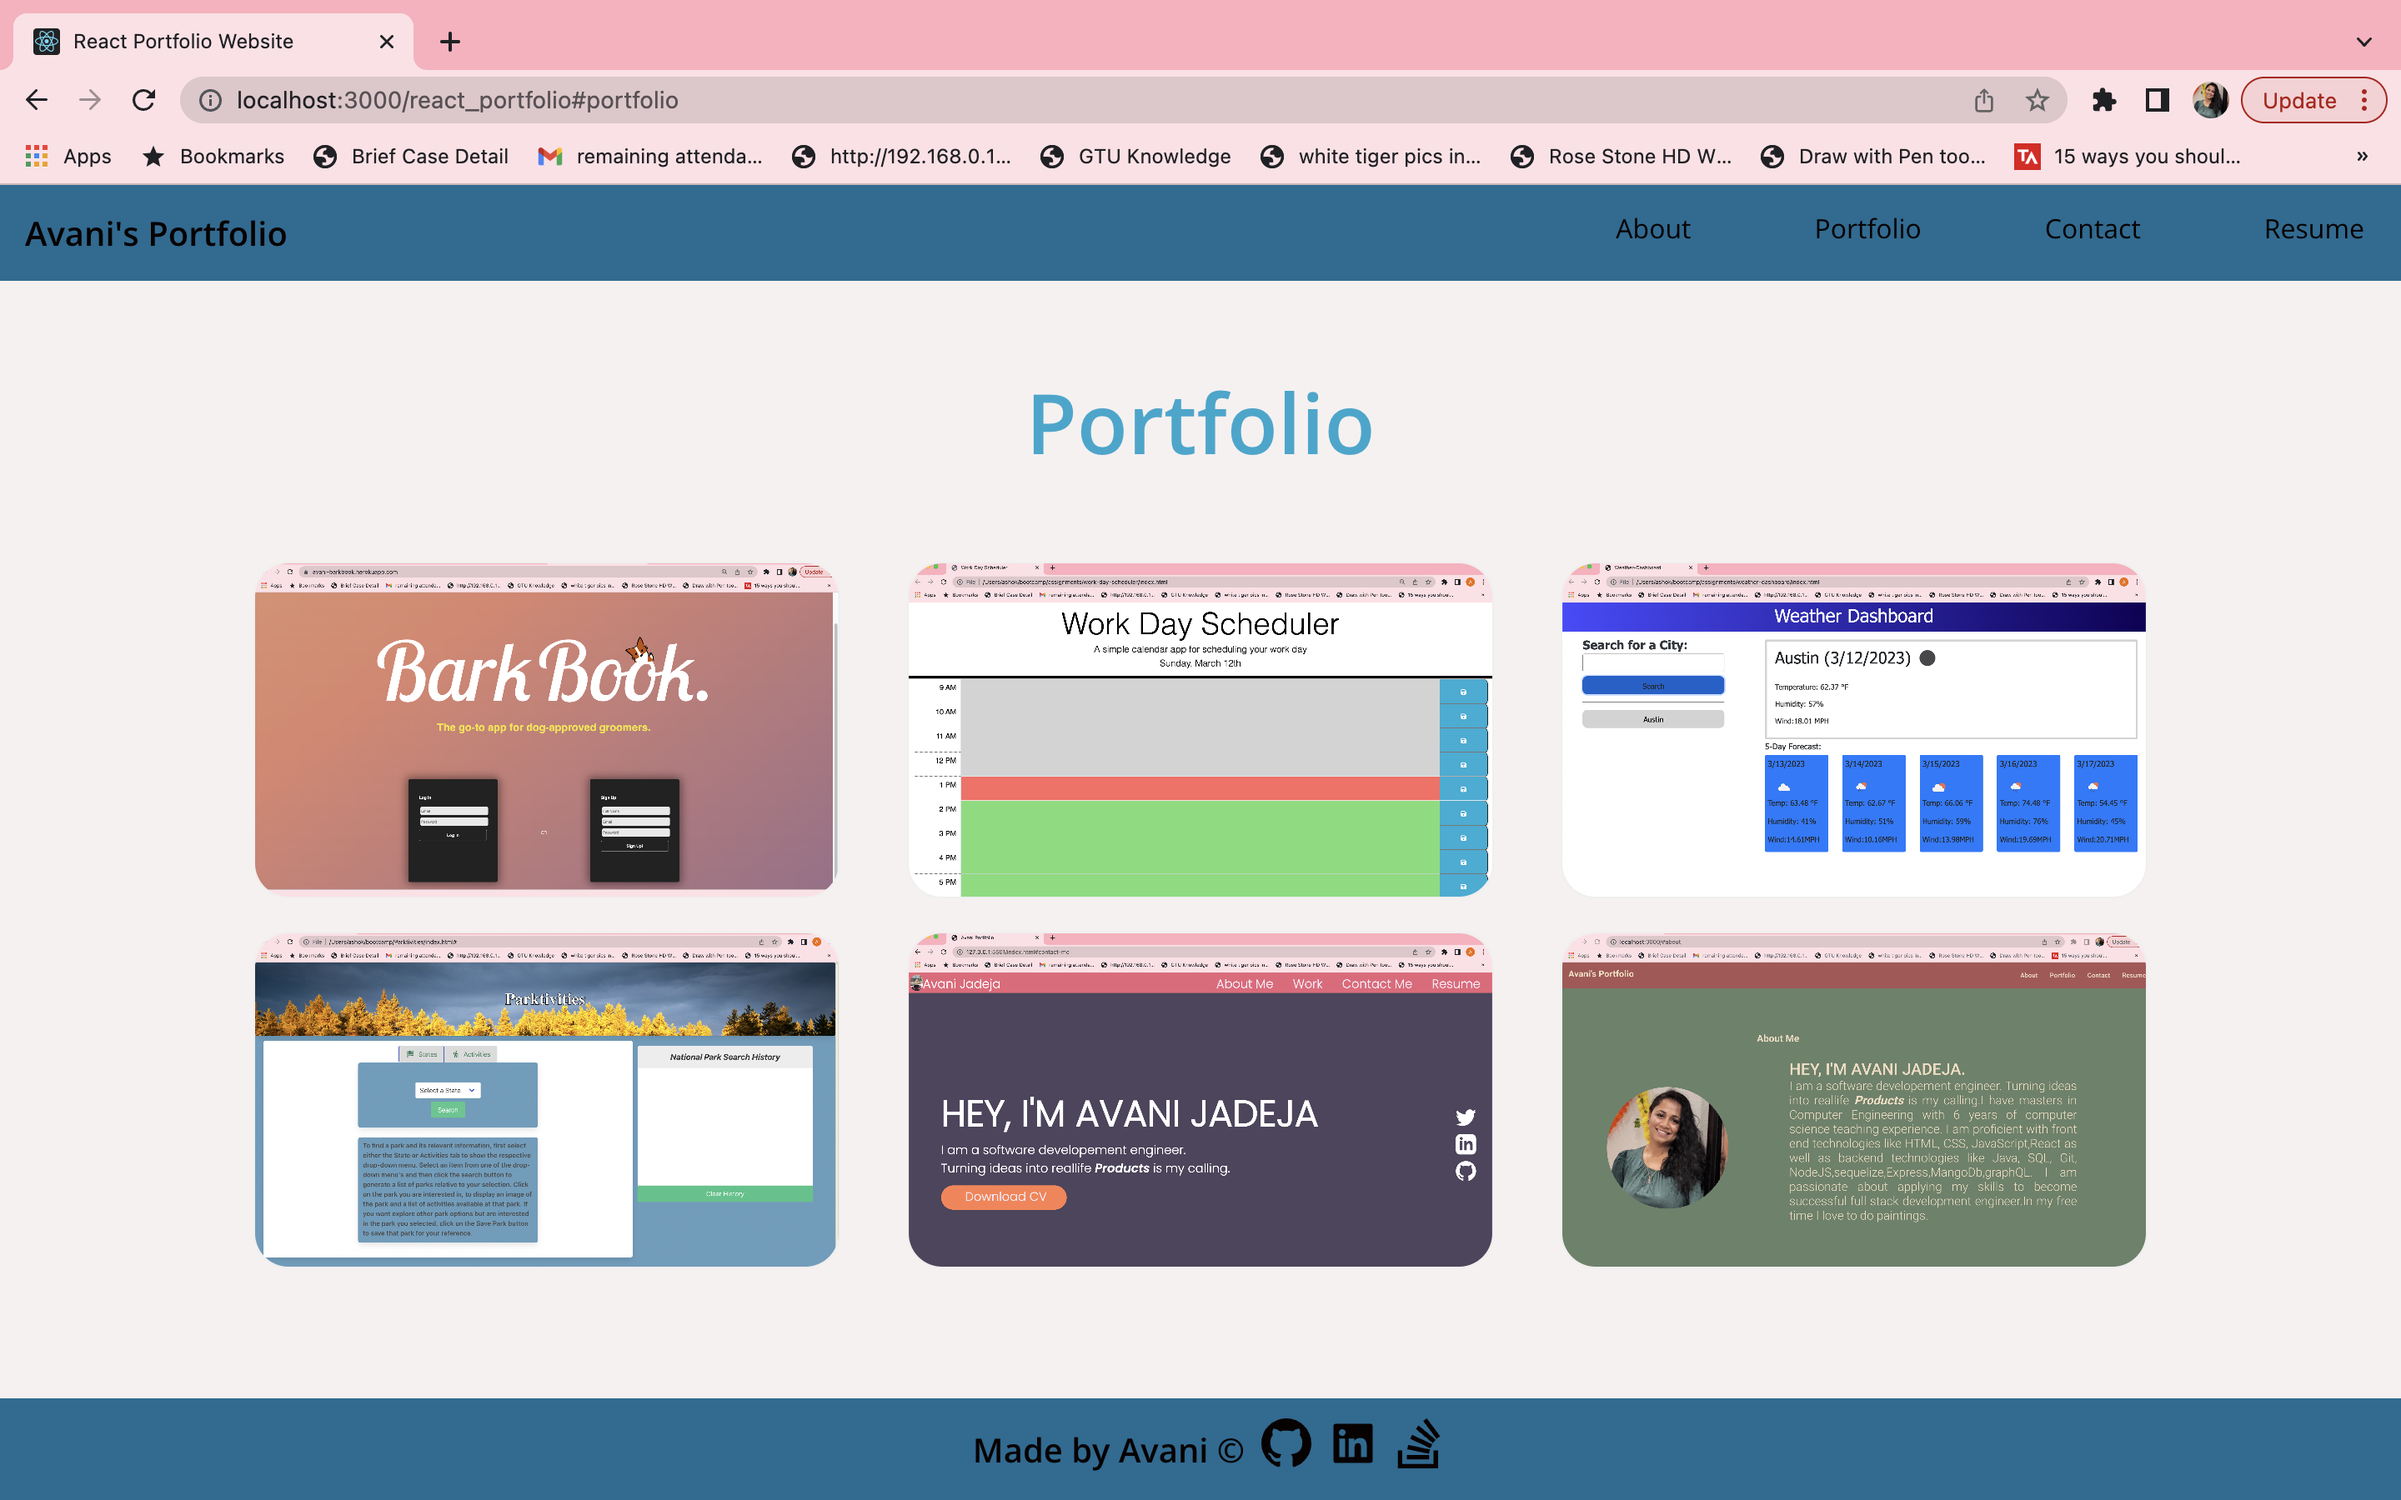
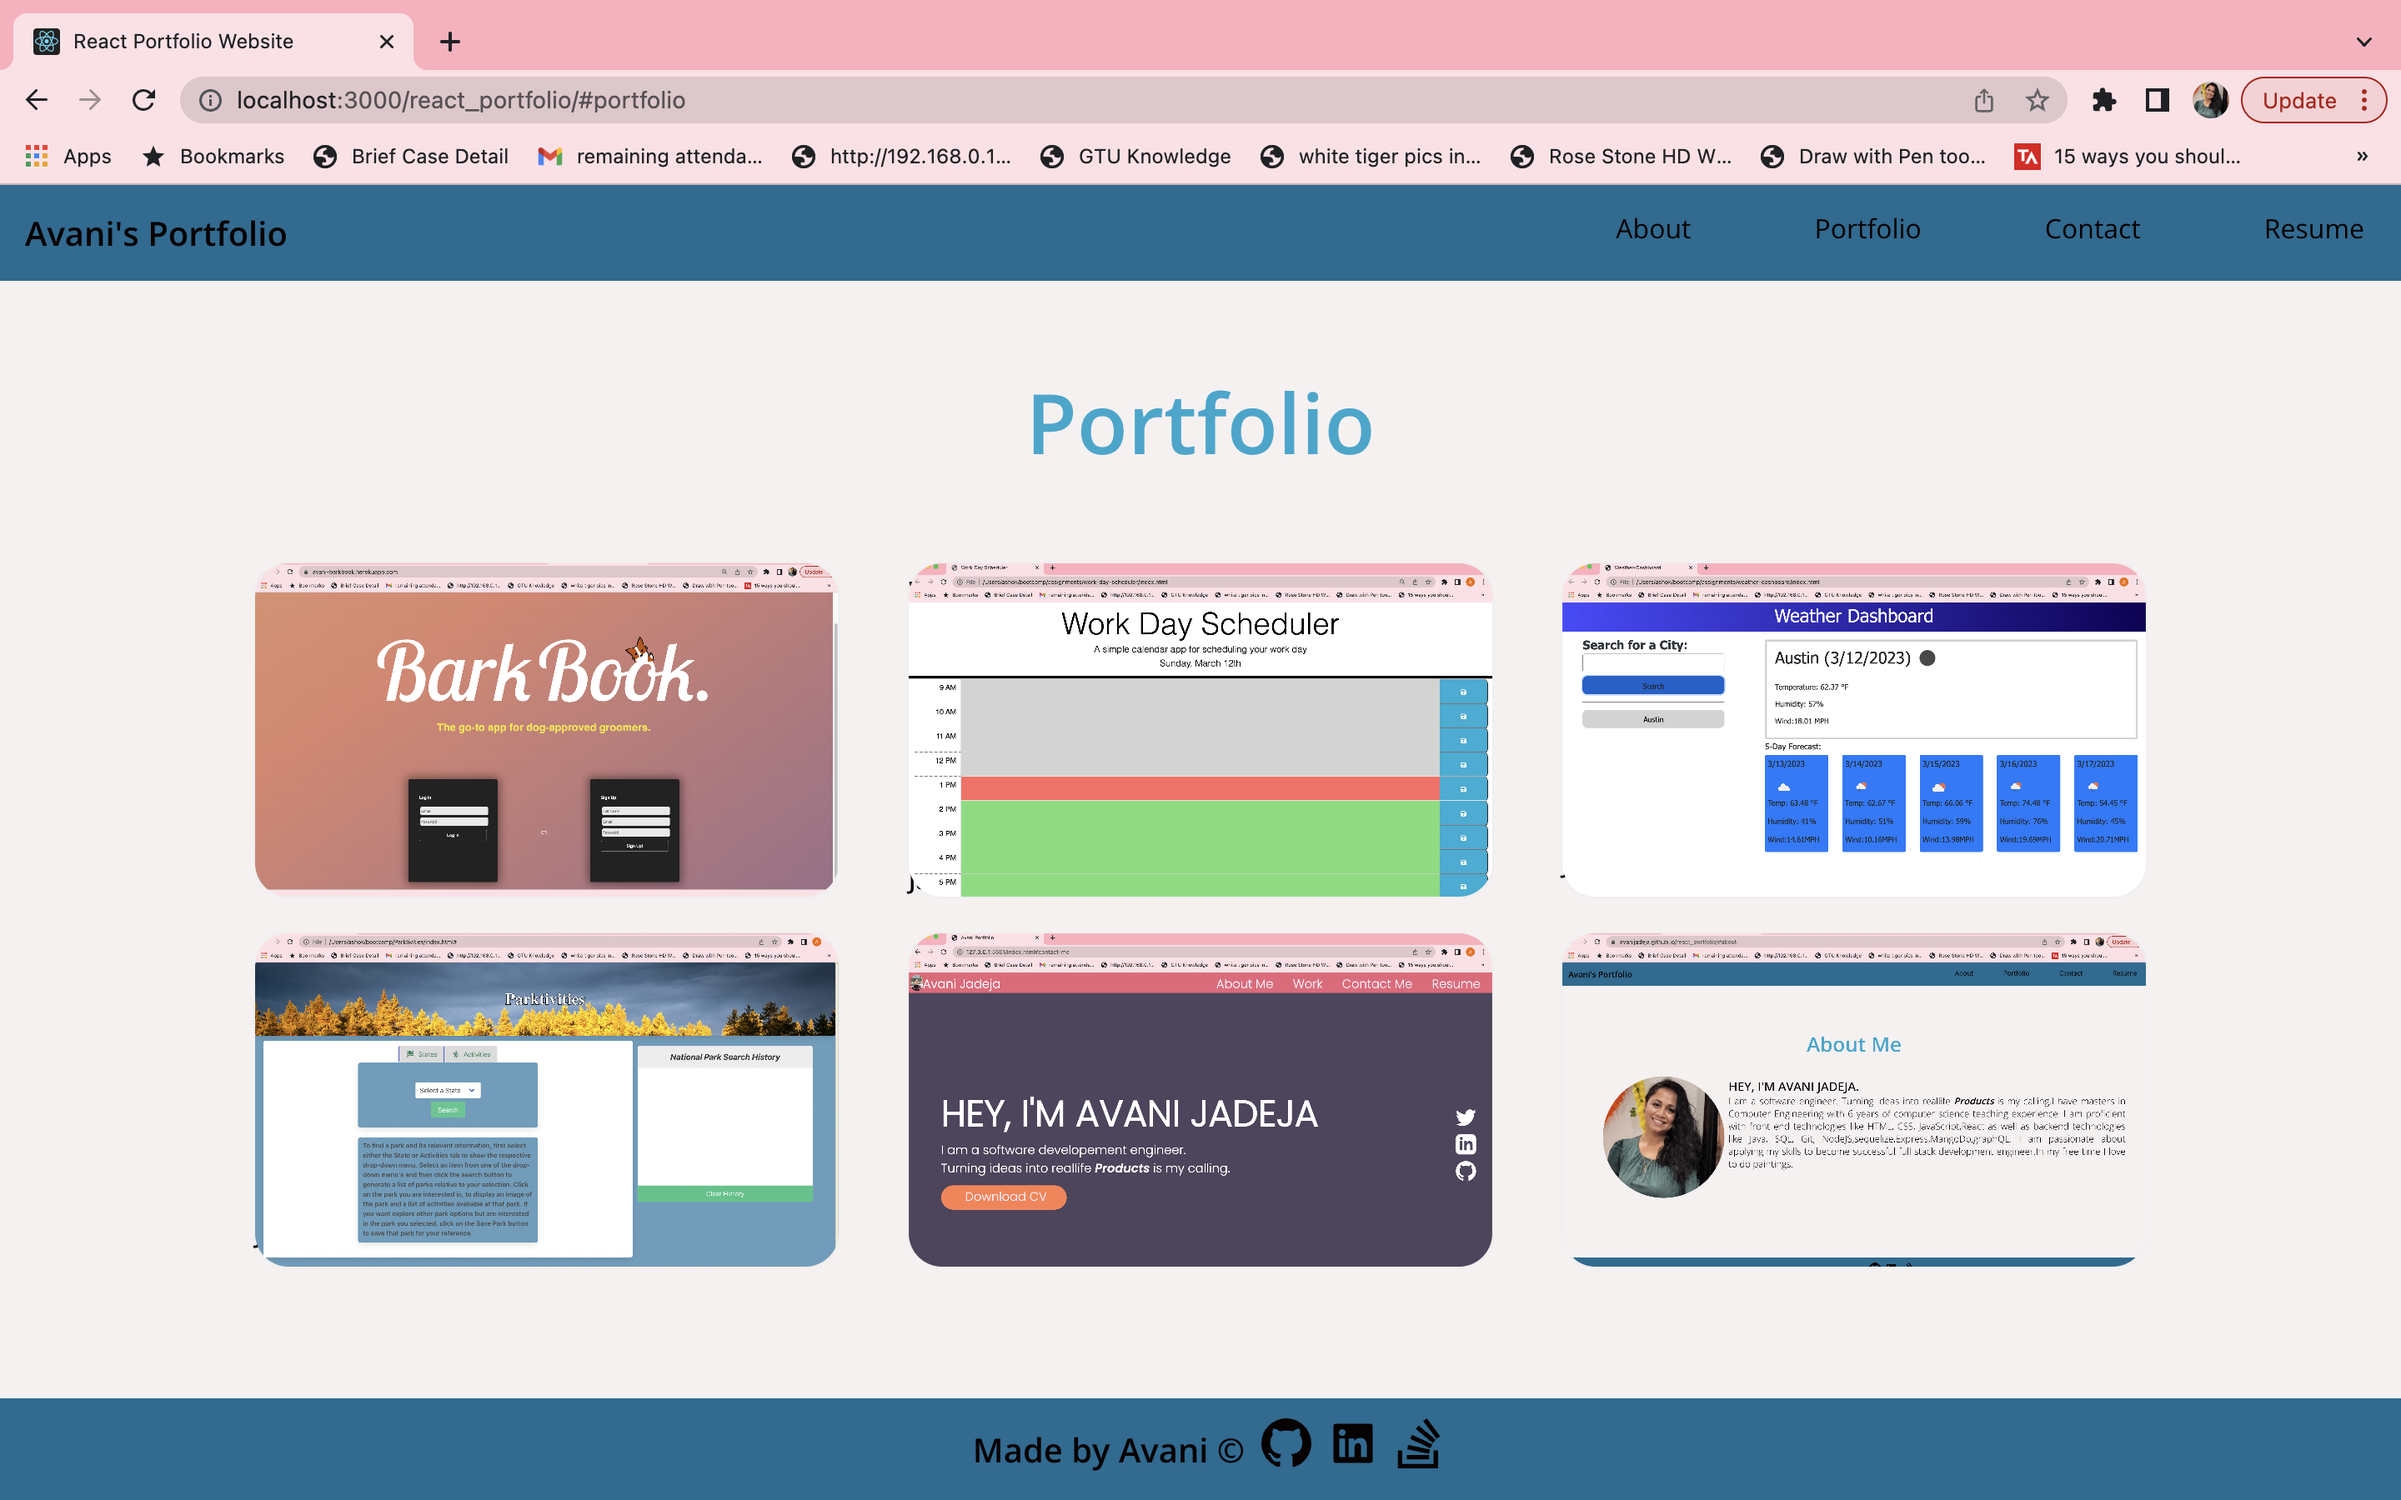
Added Screenshots in readme

Changed region(s): [[0.625, 0.6222, 0.9062, 0.8711], [0.25, 0.0622, 0.2812, 0.0933]]

diff --git a/src/components/Portfolio/index.js b/src/components/Portfolio/index.js
@@ -7,7 +7,7 @@ import barkBook from "../../assets/images/BarkBook.png";
 import dayTime from "../../assets/images/dayTime.png";
 import weather from "../../assets/images/Weather.png";
 import Parkitivities from "../../assets/images/Parkitivities.png";
-import ReactPortfolio from "../../assets/images/ReactPortfolio.png";
+import ReactPortfolio from "../../assets/images/AboutMe.png";
 import AvaniPortfolio from "../../assets/images/AvaniPortfolio.png";
 
 //  Created seed for projects in data array
